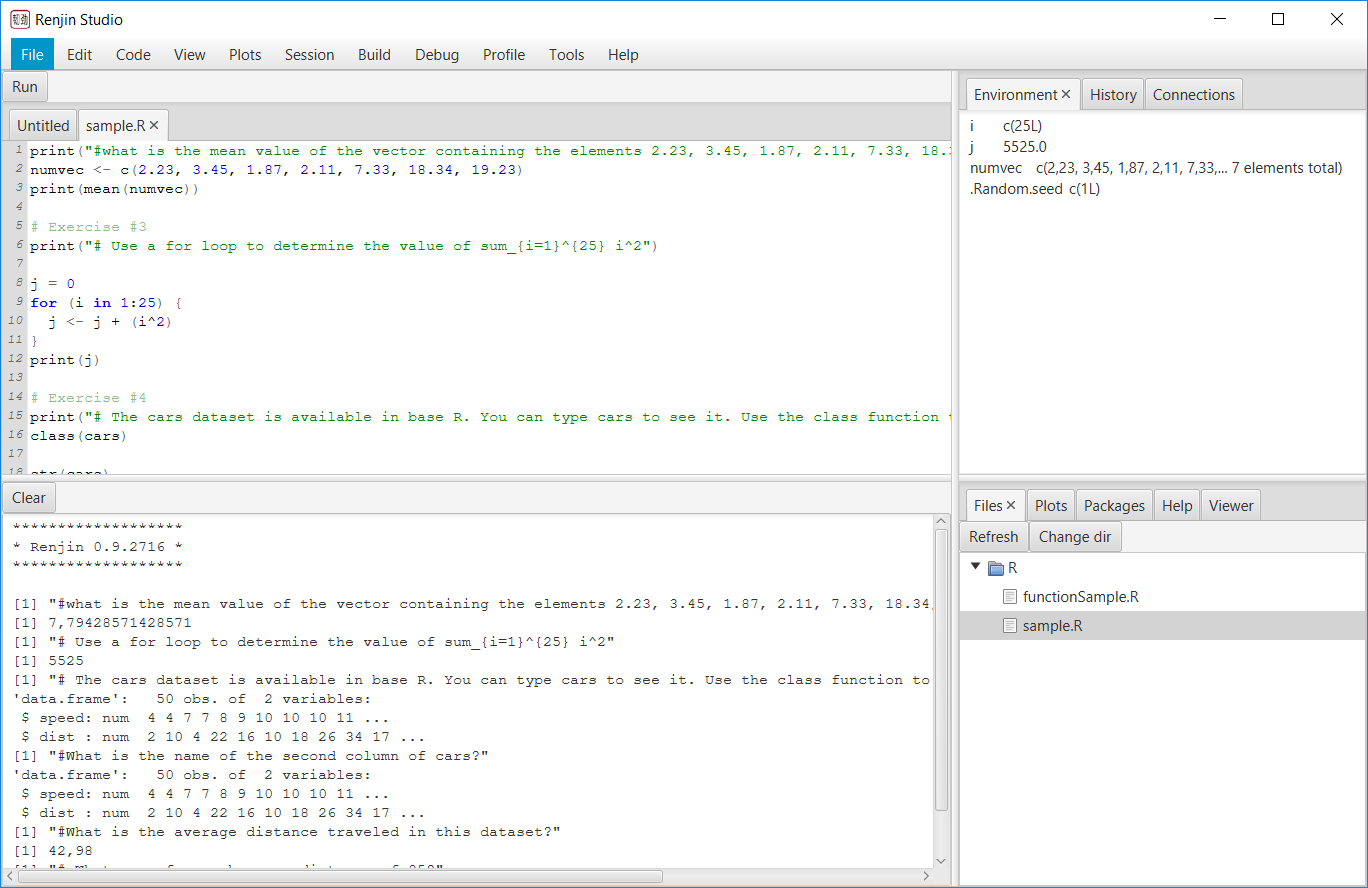
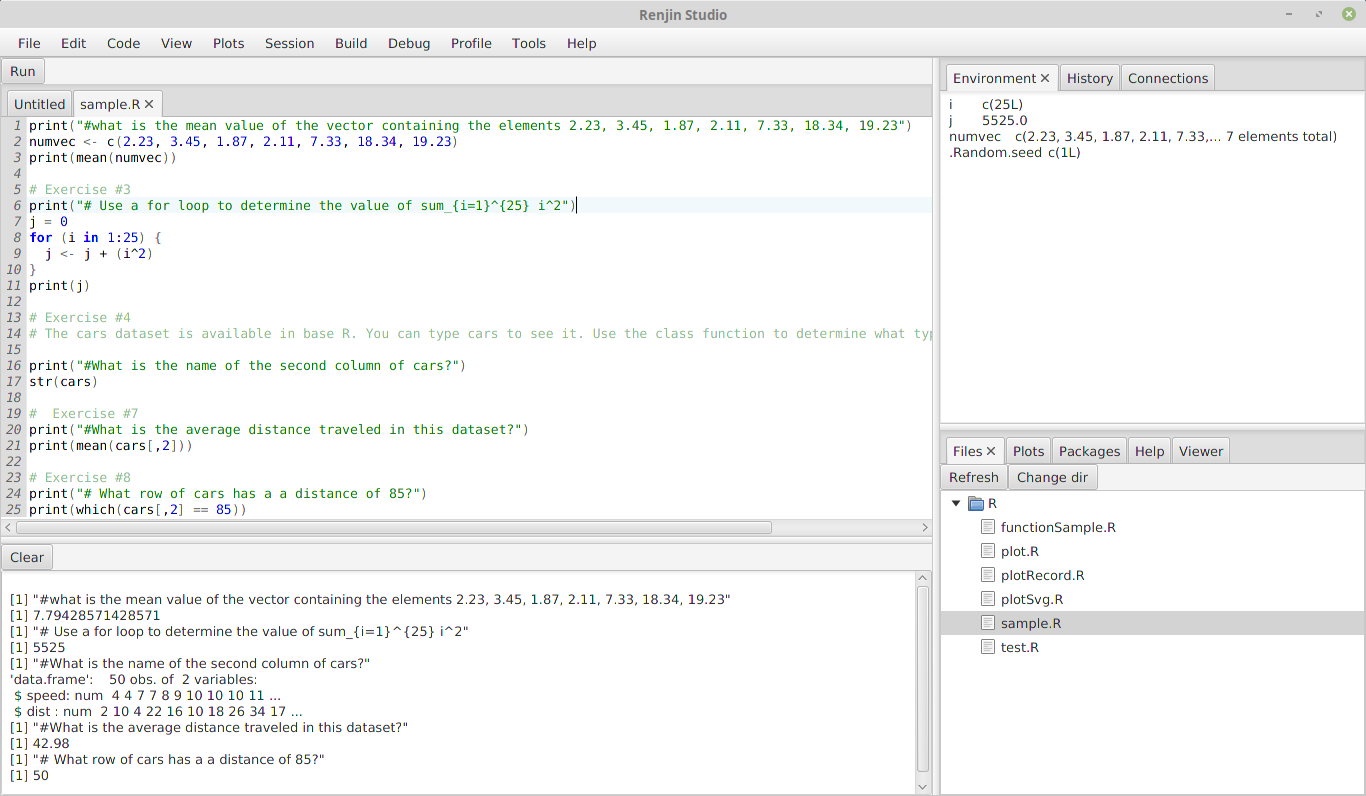
Update screenshot and added more R samples

diff --git a/src/main/java/se/alipsa/renjinstudio/utils/FileUtils.java b/src/main/java/se/alipsa/renjinstudio/utils/FileUtils.java
@@ -32,15 +32,20 @@ public class FileUtils {
    * @throws FileNotFoundException if the resource cannot be found.
    */
   public static File getResource(String name, String... encodingOpt) throws FileNotFoundException {
-    String encoding = encodingOpt.length > 0 ? encodingOpt[0] : "UTF-8";
-    URL url = getResourceUrl(name);
     File file;
     try {
-      file = new File(URLDecoder.decode(url.getFile(), encoding));
+      String path = getResourcePath(name, encodingOpt);
+      file = new File(path);
     } catch (UnsupportedEncodingException e) {
-      throw new FileNotFoundException("Failed to find resource " + name + ", url is " + url);
+      throw new FileNotFoundException("Failed to find resource " + name);
     }
     return file;
+  }
+
+  public static String getResourcePath(String name, String... encodingOpt) throws UnsupportedEncodingException {
+    String encoding = encodingOpt.length > 0 ? encodingOpt[0] : "UTF-8";
+    URL url = getResourceUrl(name);
+    return URLDecoder.decode(url.getFile(), encoding);
   }
 
   /**

diff --git a/src/main/java/se/alipsa/renjinstudio/RenjinStudio.java b/src/main/java/se/alipsa/renjinstudio/RenjinStudio.java
@@ -11,6 +11,8 @@ import javafx.scene.layout.BorderPane;
 import javafx.scene.layout.Pane;
 import javafx.scene.layout.VBox;
 import javafx.stage.Stage;
+import org.slf4j.Logger;
+import org.slf4j.LoggerFactory;
 import se.alipsa.renjinstudio.code.CodeComponent;
 import se.alipsa.renjinstudio.console.ConsoleComponent;
 import se.alipsa.renjinstudio.environment.EnvironmentComponent;
@@ -26,6 +28,8 @@ public class RenjinStudio extends Application {
     private InoutComponent inoutComponent;
     private Stage primaryStage;
     private Scene scene;
+
+    Logger log = LoggerFactory.getLogger(RenjinStudio.class);
 
     public static void main(String[] args) {
         launch(args);
